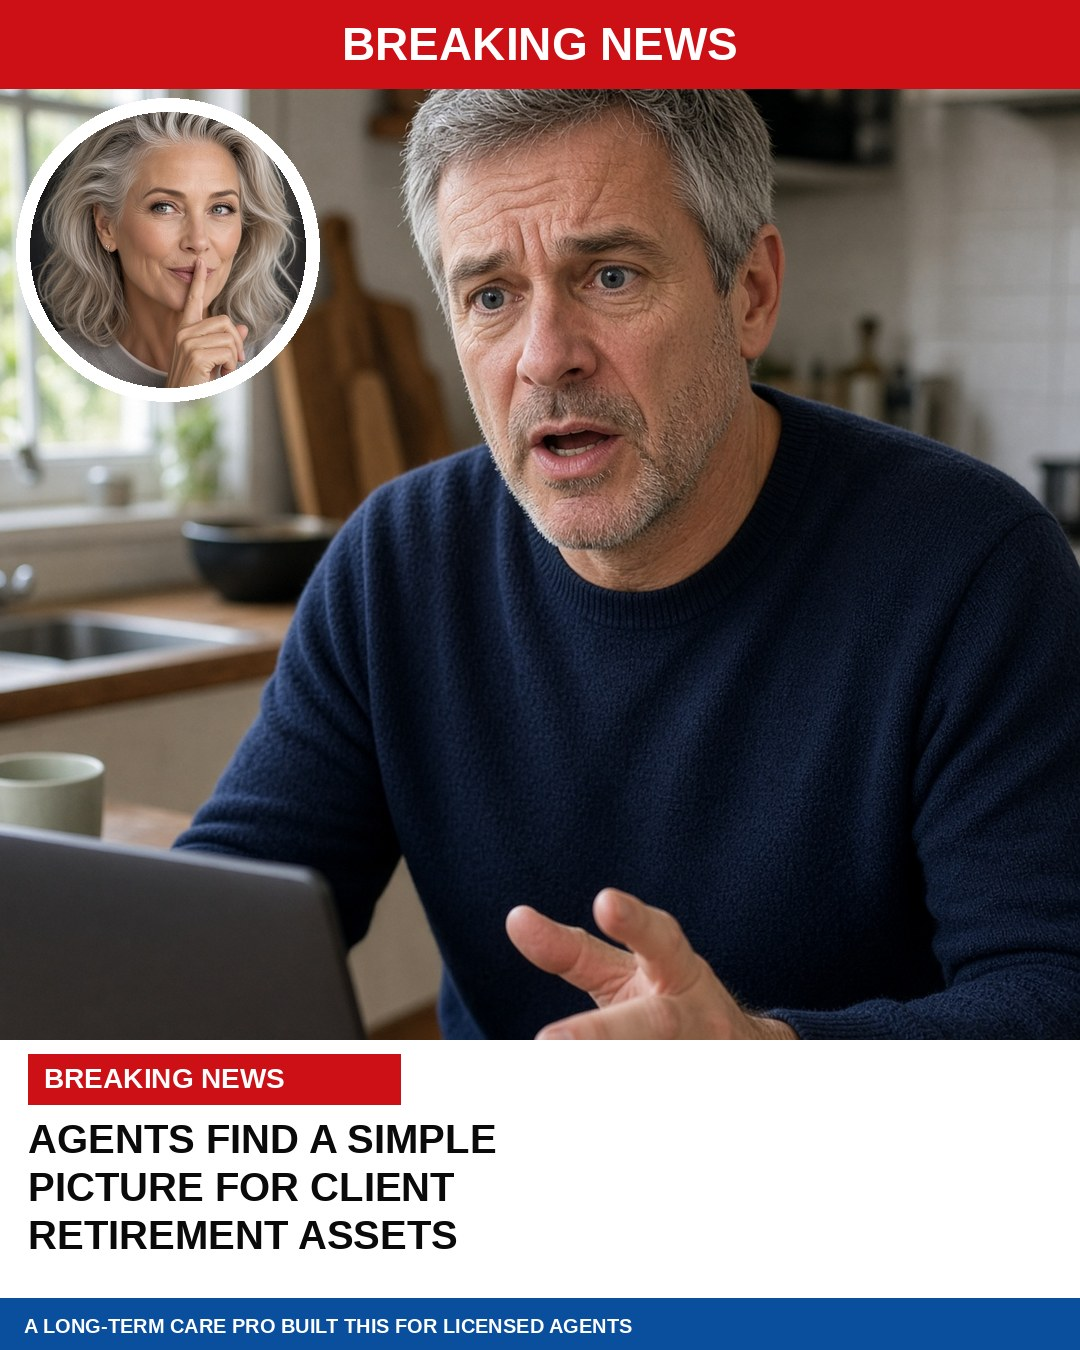
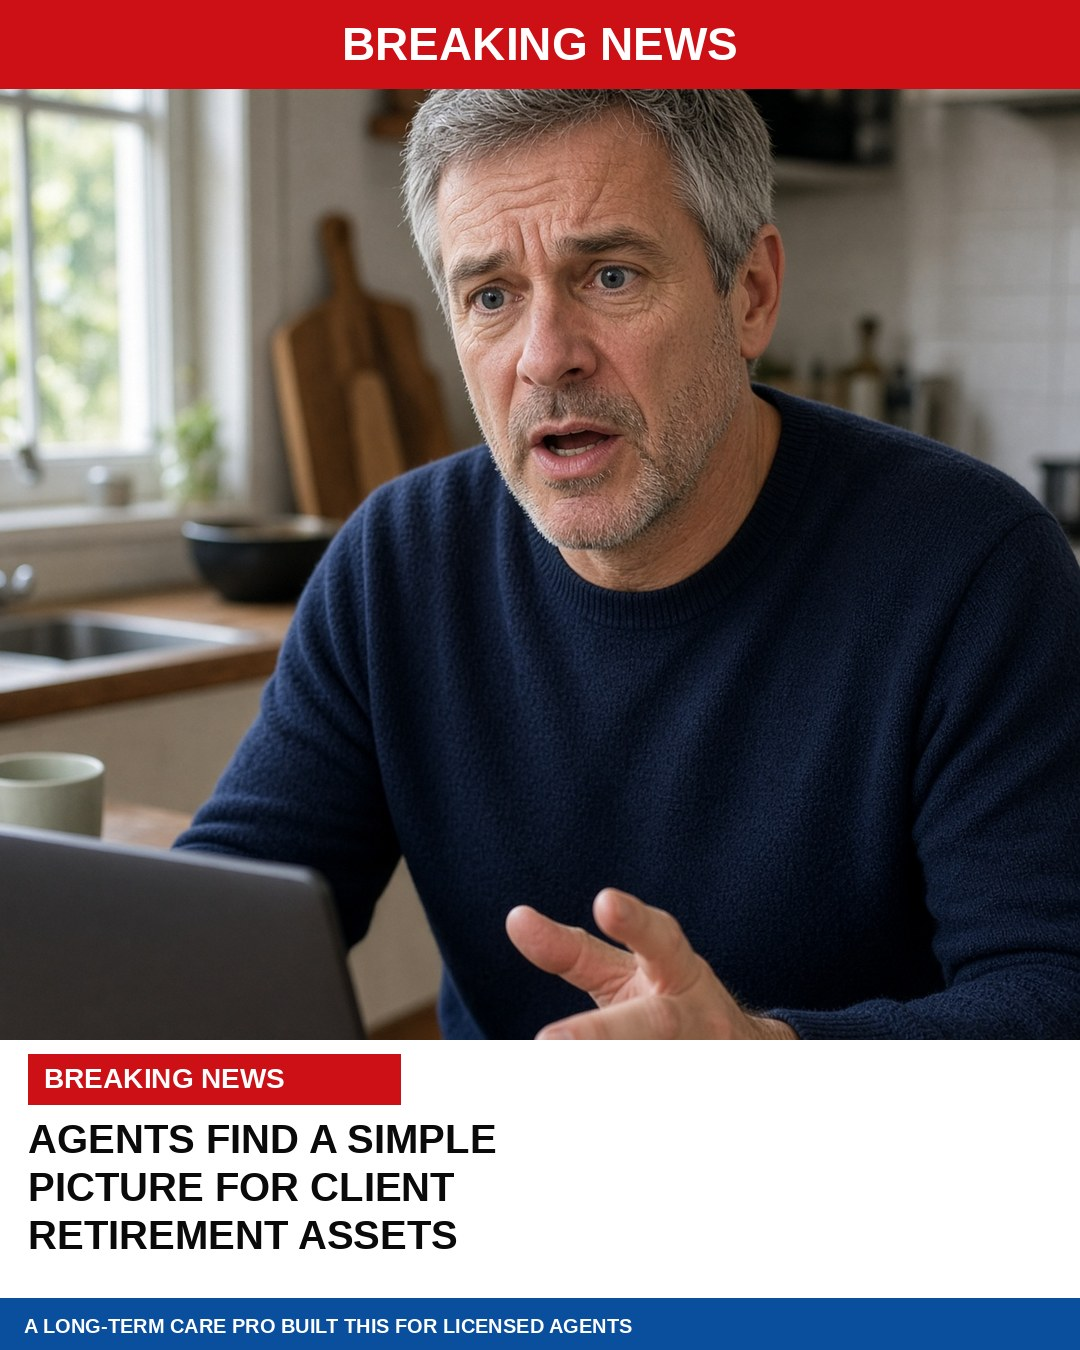
Remove the woman from the Breaking News ad.

Changed region(s): [[0.0, 0.0622, 0.3056, 0.3111]]

diff --git a/src/routes/facebook-ads.tsx b/src/routes/facebook-ads.tsx
@@ -190,7 +190,7 @@ function FacebookAds() {
         <AdCard
           kicker="Ad 2 · breaking news"
           image="/facebook-ads/breaking.jpg"
-          alt="Breaking news layout: a grey-haired man, a woman whispering in a circle, and a headline about a simple asset picture."
+          alt="Breaking news layout: a grey-haired man tells other agents the news, with a headline about a simple asset picture."
           copy={AD_TWO}
           headline="Agents, Open This Picture Today"
           description="Use it before the next client sits down."
